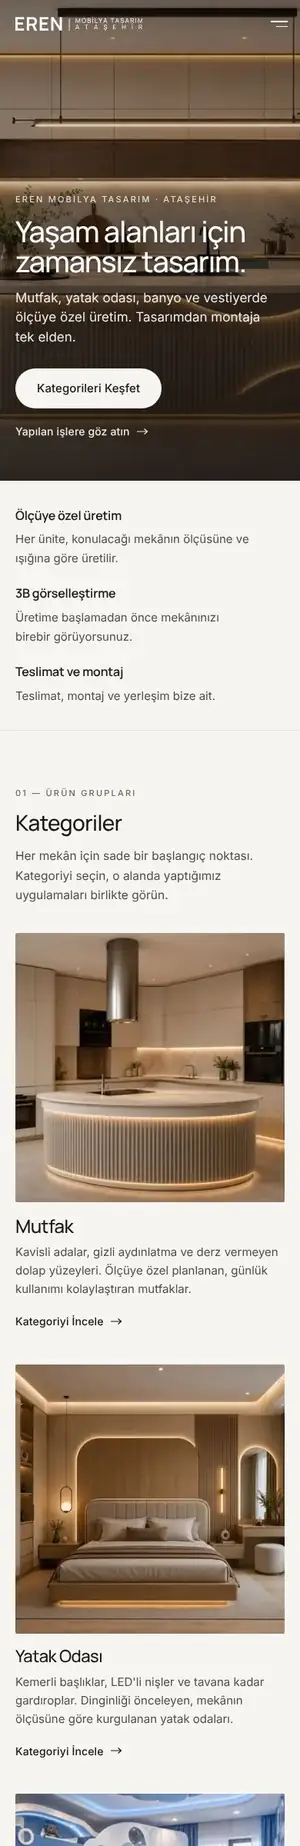
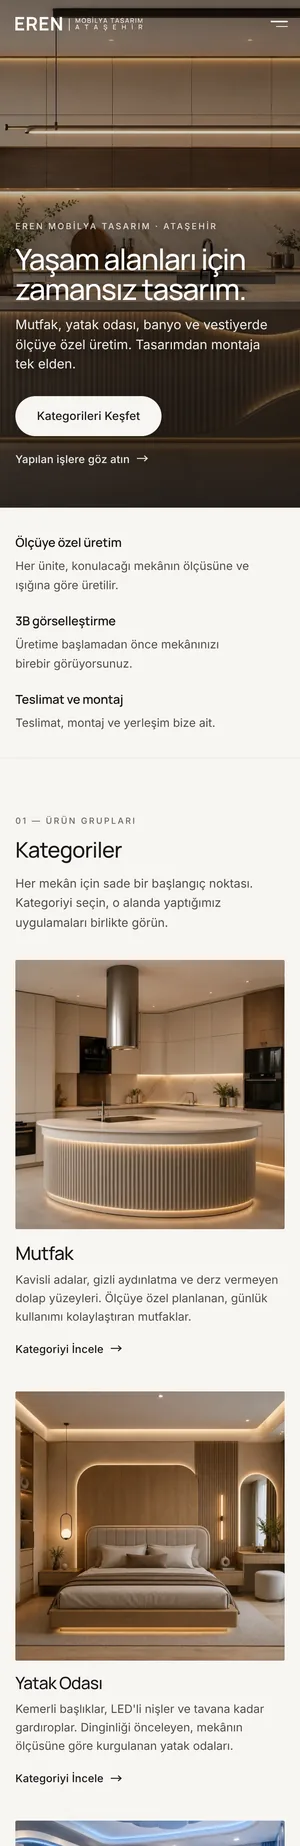
Reel yonu piksel yola baglandi; Sofilx ve Eren Mobilya mockuplari yenilendi
- kay keyframe'inde yuzde yerine --yol (px): Safari gorsel yuklenmeden
  yuzdeyi sifir sayip akisi ters cevirebiliyordu
- Dikis yeri daha uzun soluyor, dongu biraz yavaslatildi (min 16sn)
- Sofilx mockupinda solgun gorunen bolumler duzeldi (reveal'lar bitmis
  halde yakalaniyor), Eren Mobilya guncel siteden yeniden cekildi

Claude-Session: https://claude.ai/code/session_014ZMoQhEiQ32VK52nY8Wn8t

diff --git a/src/components/Showcase.tsx b/src/components/Showcase.tsx
@@ -55,10 +55,14 @@ export default function Showcase({
         const w = ekran.clientWidth;
         const h = ekran.clientHeight;
         if (!w || !h) return;
-        img.style.setProperty("--win", `${h}px`);
+        // Yolu pikselle veriyoruz: keyframe'de yüzde kullanınca Safari, görsel
+        // daha yüklenmemişken yüzdeyi sıfır sayıp akışı ters çevirebiliyor.
+        const gorselYukseklik = w * oran;
+        const yol = Math.max(0, gorselYukseklik - h);
+        img.style.setProperty("--yol", `-${yol.toFixed(1)}px`);
         img.style.animation = "none";
         void img.offsetWidth;
-        img.style.animation = `kay ${kaymaSuresi(w * oran, h, temel).toFixed(
+        img.style.animation = `kay ${kaymaSuresi(gorselYukseklik, h, temel).toFixed(
           1
         )}s linear infinite`;
       });

diff --git a/src/app/globals.css b/src/app/globals.css
@@ -164,22 +164,23 @@ body {
 
 @keyframes kay {
   0%,
-  1% {
+  0.6% {
     transform: translateY(0);
     opacity: 0;
   }
-  3.5% {
+  3% {
     transform: translateY(0);
+    opacity: 1;
+  }
+  84% {
+    transform: translateY(var(--yol, 0px));
     opacity: 1;
   }
   93% {
-    transform: translateY(calc(-100% + var(--win)));
-    opacity: 1;
-  }
-  97.5% {
-    transform: translateY(calc(-100% + var(--win)));
+    transform: translateY(var(--yol, 0px));
     opacity: 0;
   }
+  99.4%,
   100% {
     transform: translateY(0);
     opacity: 0;

diff --git a/src/lib/mockup.ts b/src/lib/mockup.ts
@@ -48,5 +48,5 @@ export function kaymaSuresi(
   temel = 6
 ): number {
   const yol = Math.max(0, gorselYukseklik - pencereYukseklik);
-  return Math.min(52, Math.max(14, (yol / 100) * 1.1 + temel));
+  return Math.min(52, Math.max(16, (yol / 100) * 1.1 + temel));
 }
